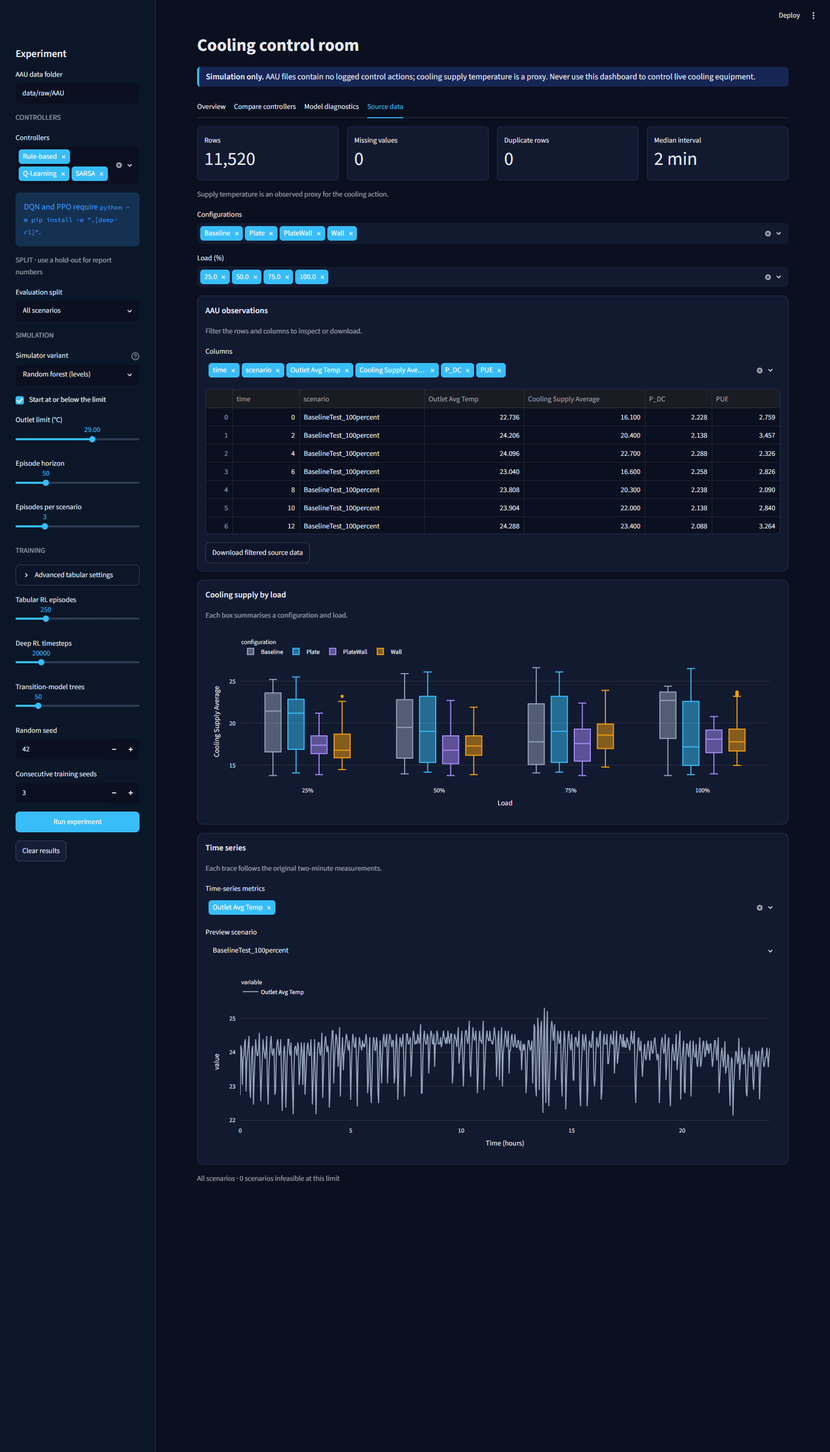
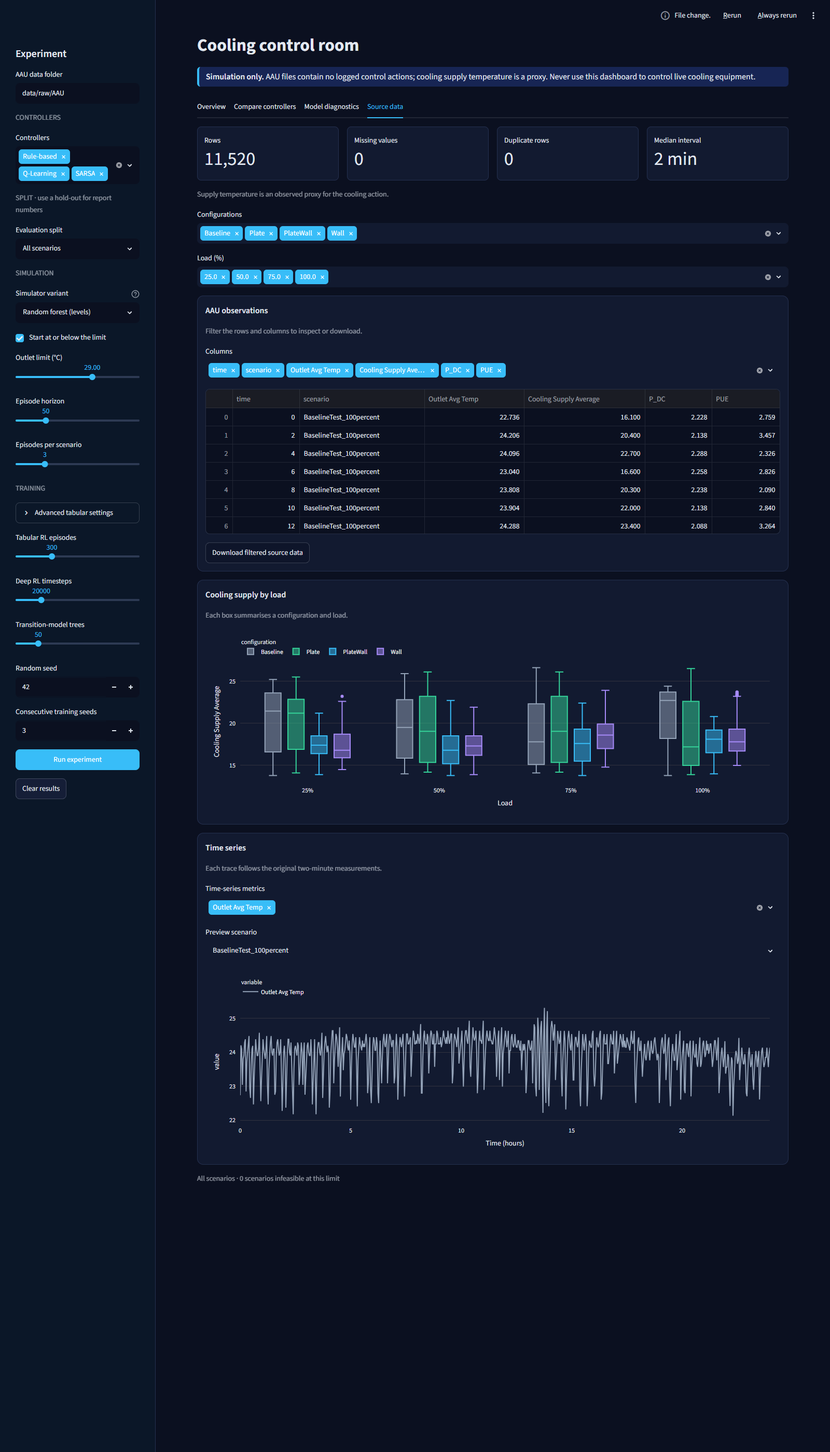
Benchmark both termination rules and state encoders on held-out AAU loads

diff --git a/scripts/verify_variants.py b/scripts/verify_variants.py
@@ -1,5 +1,6 @@
 """Reproduce the held-out three-seed comparison in docs/ui/REPORT.md."""
 
+from math import ceil
 from pathlib import Path
 
 import pandas as pd
@@ -14,74 +15,119 @@ def table(frame):
     return "\n".join("| " + " | ".join(row) + " |" for row in rows)
 
 
-def main():
+def benchmark(variant):
     data = load_csv_directory("data/raw/AAU")
-    diagnostics = []
-    results = []
-    for variant in VARIANTS:
-        context = prepare_experiment(
-            data,
-            split_name="Load generalisation: hold out 100%",
-            variant=variant,
-            trees=50,
-            seed=42,
-        )
-        sensitivity = action_sensitivity(context)
-        flags = sensitivity.loc[(sensitivity.applied < 0) & (sensitivity.P_DC < 0), "scenario"]
-        diagnostics.append(
-            {
-                "Simulator": variant,
-                **{key: f"{value:.4f}" for key, value in context.diagnostics.held_out_mae.items()},
-                "Mean abs Δ outlet (°C)": f"{sensitivity['Outlet Avg Temp'].abs().mean():.4f}",
-                "Mean abs Δ power (kW)": f"{sensitivity.P_DC.abs().mean():.4f}",
-                "Power sign flags": ", ".join(flags) or "None",
-            }
-        )
-        for controller in ("Rule-based", "Q-Learning", "SARSA"):
-            seeds = []
-            for seed in (42, 43, 44):
-                run = run_controller(
-                    context,
-                    controller=controller,
-                    outlet_limit=29,
-                    horizon=50,
-                    episodes_per_scenario=3,
-                    tabular_episodes=250,
-                    deep_timesteps=0,
-                    seed=seed,
-                )
-                metrics = run.scenario_metrics
-                seeds.append(
+    context = prepare_experiment(
+        data,
+        split_name="Load generalisation: hold out 100%",
+        variant=variant,
+        trees=50,
+        seed=42,
+    )
+    sensitivity = action_sensitivity(context)
+    flags = sensitivity.loc[(sensitivity.applied < 0) & (sensitivity.P_DC < 0), "scenario"]
+    diagnostics = {
+        "Simulator": variant,
+        **{key: f"{value:.4f}" for key, value in context.diagnostics.held_out_mae.items()},
+        "Mean abs Δ outlet (°C)": f"{sensitivity['Outlet Avg Temp'].abs().mean():.4f}",
+        "Mean abs Δ power (kW)": f"{sensitivity.P_DC.abs().mean():.4f}",
+        "Terminal cost per remaining step": ceil(
+            context.training_data.P_DC.max() + 0.5 * context.training_data.PUE.max()
+        ),
+        "Power sign flags": ", ".join(flags) or "None",
+    }
+    rows = []
+    base_cache = {}
+    corrected = {}
+    legacy_baseline = None
+    for legacy in [True, False]:
+        for legacy_state in [True, False]:
+            for controller in ["Rule-based (no hysteresis)", "Rule-based", "Q-Learning", "SARSA"]:
+                by_seed = []
+                for seed in [42, 43, 44]:
+                    key = (controller, seed, legacy)
+                    if key in base_cache:
+                        metrics = base_cache[key]
+                    else:
+                        run = run_controller(
+                            context,
+                            controller=controller,
+                            outlet_limit=29,
+                            horizon=50,
+                            episodes_per_scenario=3,
+                            tabular_episodes=300,
+                            deep_timesteps=0,
+                            legacy_termination=legacy,
+                            legacy_state=legacy_state,
+                            seed=seed,
+                        )
+                        metrics = run.scenario_metrics
+                        if controller.startswith("Rule-based"):
+                            base_cache[key] = metrics
+                    by_seed.append(
+                        {
+                            "Any violation (%)": 100 * metrics.any_violation.mean(),
+                            "Violating steps (%)": 100
+                            * metrics.violation_count.sum()
+                            / metrics.steps.sum(),
+                            "Steps": metrics.steps.mean(),
+                            "Return / step": metrics.return_per_step.mean(),
+                            "Power (kW)": metrics.mean_p_dc.mean(),
+                            "Switching (%)": 100 * metrics.switching_rate.mean(),
+                        }
+                    )
+                frame = pd.DataFrame(by_seed)
+                if legacy and not legacy_state and controller == "Rule-based":
+                    legacy_baseline = frame
+                if not legacy and not legacy_state:
+                    corrected[controller] = frame
+                rows.append(
                     {
-                        "Episodes violated (%)": 100 * metrics.violated.mean(),
-                        "Mean steps": metrics.steps_survived.mean(),
-                        "Switching (%)": 100 * metrics.switching_rate.mean(),
-                        "Power (kW)": metrics.mean_p_dc.mean(),
+                        "Termination": "Legacy" if legacy else "Serious",
+                        "State": "5-bin" if legacy_state else "Safety",
+                        "Controller": controller,
+                        **{k: f"{frame[k].mean():.3f} ± {frame[k].std():.3f}" for k in frame},
                     }
                 )
-            spread = pd.DataFrame(seeds)
-            results.append(
-                {
-                    "Simulator": variant,
-                    "Controller": controller,
-                    **{
-                        key: f"{spread[key].mean():.3f} ± {spread[key].std():.3f}" for key in spread
-                    },
-                }
-            )
-            print(variant, controller, results[-1], flush=True)
+            print(variant, legacy, legacy_state, flush=True)
+    comparisons = []
+    baseline = corrected["Rule-based"]
+    for metric in ["Steps", "Any violation (%)", "Violating steps (%)"]:
+        before, after = legacy_baseline[metric], baseline[metric]
+        comparisons.append(
+            f"Hysteresis {metric}, legacy to corrected termination: {before.mean():.3f} ± {before.std():.3f} to {after.mean():.3f} ± {after.std():.3f}."
+        )
+
+    for name in ["Q-Learning", "SARSA"]:
+        diff = corrected[name] - corrected["Rule-based"]
+        comparisons.append(
+            f"{name} minus hysteresis, paired by seed: any violation {diff['Any violation (%)'].mean():+.2f} ± {diff['Any violation (%)'].std():.2f} percentage points; mean power {diff['Power (kW)'].mean():+.4f} ± {diff['Power (kW)'].std():.4f} kW."
+        )
+        saving_pct = -100 * diff["Power (kW)"].mean() / baseline["Power (kW)"].mean()
+        hot_steps = diff["Violating steps (%)"].mean()
+        qualifies = saving_pct >= 1 and diff["Any violation (%)"].mean() <= 0 and hot_steps <= 0
+        comparisons.append(
+            f"{name} {'met' if qualifies else 'did not meet'} the joint benchmark of at least 1% lower mean power and no increase in either safety measure. Mean power saving was {saving_pct:+.2f}%, and the violating-step share changed by {hot_steps:+.2f} percentage points."
+        )
+    return diagnostics, table(pd.DataFrame(rows)), comparisons
+
+
+def main():
+    from concurrent.futures import ProcessPoolExecutor
+
+    with ProcessPoolExecutor(max_workers=3) as pool:
+        results = list(pool.map(benchmark, VARIANTS))
     report = [
         "# Held-out cooling experiments",
-        "Fit each simulator once (50 trees or boosting iterations, fit seed 42) on all 25%, 50% and 75% load files. Evaluate on the four 100% files. Each controller used the same seeded starts, limit 29 °C, eligible starts, horizon 50 and three episodes per scenario. Tabular policies trained for 250 episodes. Results give mean ± sample standard deviation of three seed-level episode means (42–44).",
-        "## Surrogate validation",
-        "First five numeric columns are held-out next-step MAE in source units. Sensitivity averages absolute responses to both ±0.5 °C supply perturbations around each held-out scenario median. Sign flags identify a predicted power decrease under stronger cooling.",
-        table(pd.DataFrame(diagnostics)),
-        "## Simulated control",
-        "A violation contributes one failed episode regardless of its duration. Duration includes the terminal transition. Switching is the fraction of consecutive action pairs that differ. Power is the episode mean over its observed duration.",
-        table(pd.DataFrame(results)),
-        "The level forest remains the reference. Temperature monotonicity is an imposed physical assumption. Differences between controllers depend on the surrogate, episode duration and seed. Logged AAU data do not identify causal savings.",
+        "Each model was fitted once on 25%, 50% and 75% loads (50 estimators, seed 42). Evaluation used the four held-out 100% scenarios, three matched starts per scenario for each seed (42–44), limit 29 °C and horizon 50. Each tabular run trained for 300 episodes. Values are seed means ± sample standard deviation. The violating-step percentage pools steps within each seed. Other metrics average episodes within each seed. The two rule controllers do not use a state encoder.",
+        "## Reward design correction",
+        "The original pipeline analysis supplied with the assignment measured a typical step cost of about 3.25, a mean excess of 0.16 °C, a mean violation cost of about 0.43 and a return–duration correlation of −0.96. Ending 10, 30 or 49 steps early avoided about 33, 98 or 159 cost units. Corrected runs continue through mild excess, charging quadratic cost each step. Excess above 1.5 °C ends the run and incurs the training-derived cost for each remaining step. The tables compare both rules at matched starts and report return per observed step.",
+        "## Simulator validation",
+        table(pd.DataFrame([item[0] for item in results])),
+        "Sensitivity is the mean absolute response to a ±0.5 °C supply change around the median held-out state. The small predicted outlet responses give the agent little leverage in these scenarios.",
     ]
-
+    for variant, (_, rows, comparisons) in zip(VARIANTS, results, strict=True):
+        report.extend(["## " + variant, rows, *comparisons])
     Path("docs/ui/REPORT.md").write_text("\n\n".join(report) + "\n", encoding="utf-8")
 
 

diff --git a/docs/ui/REPORT.md b/docs/ui/REPORT.md
@@ -1,33 +1,122 @@
 # Held-out cooling experiments
 
-Fit each simulator once (50 trees or boosting iterations, fit seed 42) on all 25%, 50% and 75% load files. Evaluate on the four 100% files. Each controller used the same seeded starts, limit 29 °C, eligible starts, horizon 50 and three episodes per scenario. Tabular policies trained for 250 episodes. Results give mean ± sample standard deviation of three seed-level episode means (42–44).
+Each model was fitted once on 25%, 50% and 75% loads (50 estimators, seed 42). Evaluation used the four held-out 100% scenarios, three matched starts per scenario for each seed (42–44), limit 29 °C and horizon 50. Each tabular run trained for 300 episodes. Values are seed means ± sample standard deviation. The violating-step percentage pools steps within each seed. Other metrics average episodes within each seed. The two rule controllers do not use a state encoder.
 
-## Surrogate validation
+## Reward design correction
 
-First five numeric columns are held-out next-step MAE in source units. Sensitivity averages absolute responses to both ±0.5 °C supply perturbations around each held-out scenario median. Sign flags identify a predicted power decrease under stronger cooling.
+The original pipeline analysis supplied with the assignment measured a typical step cost of about 3.25, a mean excess of 0.16 °C, a mean violation cost of about 0.43 and a return–duration correlation of −0.96. Ending 10, 30 or 49 steps early avoided about 33, 98 or 159 cost units. Corrected runs continue through mild excess, charging quadratic cost each step. Excess above 1.5 °C ends the run and incurs the training-derived cost for each remaining step. The tables compare both rules at matched starts and report return per observed step.
 
-| Simulator | Outlet Avg Temp | Cooling Return Average | P_DC | PUE | CoP | Mean abs Δ outlet (°C) | Mean abs Δ power (kW) | Power sign flags |
+## Simulator validation
+
+| Simulator | Outlet Avg Temp | Cooling Return Average | P_DC | PUE | CoP | Mean abs Δ outlet (°C) | Mean abs Δ power (kW) | Terminal cost per remaining step | Power sign flags |
+| --- | --- | --- | --- | --- | --- | --- | --- | --- | --- |
+| Random forest (levels) | 0.2975 | 0.6854 | 0.1520 | 0.2889 | 0.1830 | 0.0143 | 0.0037 | 5 | BaselineTest_100percent |
+| Random forest (deltas) | 0.2270 | 0.6557 | 0.1555 | 0.2674 | 0.1712 | 0.0188 | 0.0042 | 5 | None |
+| Monotone boosting (assumption) | 0.3017 | 0.7094 | 0.1513 | 0.2641 | 0.1775 | 0.0312 | 0.0011 | 5 | None |
+
+Sensitivity is the mean absolute response to a ±0.5 °C supply change around the median held-out state. The small predicted outlet responses give the agent little leverage in these scenarios.
+
+## Random forest (levels)
+
+| Termination | State | Controller | Any violation (%) | Violating steps (%) | Steps | Return / step | Power (kW) | Switching (%) |
 | --- | --- | --- | --- | --- | --- | --- | --- | --- |
-| Random forest (levels) | 0.2975 | 0.6854 | 0.1520 | 0.2889 | 0.1830 | 0.0143 | 0.0037 | BaselineTest_100percent |
-| Random forest (deltas) | 0.2270 | 0.6557 | 0.1555 | 0.2674 | 0.1712 | 0.0188 | 0.0042 | None |
-| Monotone boosting (assumption) | 0.3017 | 0.7094 | 0.1513 | 0.2641 | 0.1775 | 0.0312 | 0.0011 | None |
+| Legacy | 5-bin | Rule-based (no hysteresis) | 13.889 ± 4.811 | 0.326 ± 0.125 | 43.194 ± 2.358 | -3.352 ± 0.011 | 2.090 ± 0.011 | 1.077 ± 0.708 |
+| Legacy | 5-bin | Rule-based | 13.889 ± 4.811 | 0.326 ± 0.125 | 43.194 ± 2.358 | -3.358 ± 0.017 | 2.094 ± 0.015 | 0.340 ± 0.340 |
+| Legacy | 5-bin | Q-Learning | 22.222 ± 4.811 | 0.568 ± 0.147 | 39.472 ± 2.045 | -3.335 ± 0.011 | 2.084 ± 0.007 | 26.276 ± 8.102 |
+| Legacy | 5-bin | SARSA | 22.222 ± 4.811 | 0.568 ± 0.147 | 39.472 ± 2.045 | -3.331 ± 0.010 | 2.082 ± 0.006 | 25.340 ± 2.595 |
+| Legacy | Safety | Rule-based (no hysteresis) | 13.889 ± 4.811 | 0.326 ± 0.125 | 43.194 ± 2.358 | -3.352 ± 0.011 | 2.090 ± 0.011 | 1.077 ± 0.708 |
+| Legacy | Safety | Rule-based | 13.889 ± 4.811 | 0.326 ± 0.125 | 43.194 ± 2.358 | -3.358 ± 0.017 | 2.094 ± 0.015 | 0.340 ± 0.340 |
+| Legacy | Safety | Q-Learning | 25.000 ± 0.000 | 0.654 ± 0.001 | 38.250 ± 0.083 | -3.328 ± 0.010 | 2.082 ± 0.008 | 16.249 ± 7.088 |
+| Legacy | Safety | SARSA | 25.000 ± 0.000 | 0.645 ± 0.013 | 38.750 ± 0.795 | -3.345 ± 0.011 | 2.085 ± 0.008 | 36.536 ± 11.144 |
+| Serious | 5-bin | Rule-based (no hysteresis) | 13.889 ± 4.811 | 0.556 ± 0.192 | 50.000 ± 0.000 | -3.330 ± 0.002 | 2.081 ± 0.007 | 1.077 ± 0.708 |
+| Serious | 5-bin | Rule-based | 13.889 ± 4.811 | 0.556 ± 0.192 | 50.000 ± 0.000 | -3.336 ± 0.006 | 2.085 ± 0.010 | 0.340 ± 0.340 |
+| Serious | 5-bin | Q-Learning | 16.667 ± 8.333 | 3.889 ± 1.602 | 50.000 ± 0.000 | -3.328 ± 0.001 | 2.079 ± 0.006 | 23.810 ± 2.784 |
+| Serious | 5-bin | SARSA | 19.444 ± 4.811 | 4.333 ± 0.833 | 50.000 ± 0.000 | -3.331 ± 0.009 | 2.079 ± 0.005 | 30.669 ± 12.822 |
+| Serious | Safety | Rule-based (no hysteresis) | 13.889 ± 4.811 | 0.556 ± 0.192 | 50.000 ± 0.000 | -3.330 ± 0.002 | 2.081 ± 0.007 | 1.077 ± 0.708 |
+| Serious | Safety | Rule-based | 13.889 ± 4.811 | 0.556 ± 0.192 | 50.000 ± 0.000 | -3.336 ± 0.006 | 2.085 ± 0.010 | 0.340 ± 0.340 |
+| Serious | Safety | Q-Learning | 25.000 ± 0.000 | 5.111 ± 1.182 | 50.000 ± 0.000 | -3.347 ± 0.017 | 2.086 ± 0.003 | 41.837 ± 23.418 |
+| Serious | Safety | SARSA | 22.222 ± 4.811 | 4.722 ± 0.977 | 50.000 ± 0.000 | -3.336 ± 0.015 | 2.082 ± 0.004 | 40.873 ± 21.854 |
 
-## Simulated control
+Hysteresis Steps, legacy to corrected termination: 43.194 ± 2.358 to 50.000 ± 0.000.
 
-A violation contributes one failed episode regardless of its duration. Duration includes the terminal transition. Switching is the fraction of consecutive action pairs that differ. Power is the episode mean over its observed duration.
+Hysteresis Any violation (%), legacy to corrected termination: 13.889 ± 4.811 to 13.889 ± 4.811.
 
-| Simulator | Controller | Episodes violated (%) | Mean steps | Switching (%) | Power (kW) |
-| --- | --- | --- | --- | --- | --- |
-| Random forest (levels) | Rule-based | 13.889 ± 4.811 | 43.194 ± 2.358 | 1.077 ± 0.708 | 2.090 ± 0.011 |
-| Random forest (levels) | Q-Learning | 22.222 ± 4.811 | 39.472 ± 2.045 | 44.227 ± 8.962 | 2.080 ± 0.001 |
-| Random forest (levels) | SARSA | 22.222 ± 4.811 | 39.472 ± 2.045 | 48.621 ± 4.802 | 2.085 ± 0.007 |
-| Random forest (deltas) | Rule-based | 13.889 ± 4.811 | 43.194 ± 2.358 | 3.741 ± 0.295 | 2.138 ± 0.009 |
-| Random forest (deltas) | Q-Learning | 38.889 ± 12.729 | 37.583 ± 2.554 | 55.671 ± 3.378 | 2.106 ± 0.014 |
-| Random forest (deltas) | SARSA | 30.556 ± 4.811 | 39.972 ± 0.809 | 56.317 ± 4.990 | 2.112 ± 0.006 |
-| Monotone boosting (assumption) | Rule-based | 8.333 ± 0.000 | 45.917 ± 0.000 | 2.778 ± 0.393 | 2.204 ± 0.006 |
-| Monotone boosting (assumption) | Q-Learning | 19.444 ± 4.811 | 43.028 ± 0.268 | 51.077 ± 1.659 | 2.206 ± 0.008 |
-| Monotone boosting (assumption) | SARSA | 30.556 ± 4.811 | 37.917 ± 1.665 | 49.620 ± 1.371 | 2.206 ± 0.012 |
+Hysteresis Violating steps (%), legacy to corrected termination: 0.326 ± 0.125 to 0.556 ± 0.192.
 
-The level forest remains the reference. Temperature monotonicity is an imposed physical assumption. Differences between controllers depend on the surrogate, episode duration and seed. Logged AAU data do not identify causal savings.
+Q-Learning minus hysteresis, paired by seed: any violation +11.11 ± 4.81 percentage points; mean power +0.0015 ± 0.0081 kW.
 
-On the held-out 100% loads, both tabular controllers switched more frequently and had higher mean violation rates than the rule-based controller in every simulator. The two forests gave the tabular policies lower mean power over their shorter observed episodes. Those averages alone do not establish energy savings at equal safety or duration. The levels model also predicted lower power for increased cooling in Baseline at full load. The delta model had the lowest outlet MAE; monotone boosting had the largest average outlet response but a slightly higher outlet MAE than levels.
+Q-Learning did not meet the joint benchmark of at least 1% lower mean power and no increase in either safety measure. Mean power saving was -0.07%, and the violating-step share changed by +4.56 percentage points.
+
+SARSA minus hysteresis, paired by seed: any violation +8.33 ± 8.33 percentage points; mean power -0.0031 ± 0.0098 kW.
+
+SARSA did not meet the joint benchmark of at least 1% lower mean power and no increase in either safety measure. Mean power saving was +0.15%, and the violating-step share changed by +4.17 percentage points.
+
+## Random forest (deltas)
+
+| Termination | State | Controller | Any violation (%) | Violating steps (%) | Steps | Return / step | Power (kW) | Switching (%) |
+| --- | --- | --- | --- | --- | --- | --- | --- | --- |
+| Legacy | 5-bin | Rule-based (no hysteresis) | 13.889 ± 4.811 | 0.326 ± 0.125 | 43.194 ± 2.358 | -3.369 ± 0.013 | 2.138 ± 0.009 | 3.741 ± 0.295 |
+| Legacy | 5-bin | Rule-based | 13.889 ± 4.811 | 0.326 ± 0.125 | 43.194 ± 2.358 | -3.383 ± 0.013 | 2.150 ± 0.010 | 0.737 ± 0.393 |
+| Legacy | 5-bin | Q-Learning | 27.778 ± 9.623 | 0.701 ± 0.262 | 40.028 ± 1.684 | -3.339 ± 0.002 | 2.107 ± 0.007 | 24.588 ± 9.235 |
+| Legacy | 5-bin | SARSA | 33.333 ± 8.333 | 0.868 ± 0.220 | 38.417 ± 0.441 | -3.336 ± 0.021 | 2.106 ± 0.017 | 23.719 ± 3.431 |
+| Legacy | Safety | Rule-based (no hysteresis) | 13.889 ± 4.811 | 0.326 ± 0.125 | 43.194 ± 2.358 | -3.369 ± 0.013 | 2.138 ± 0.009 | 3.741 ± 0.295 |
+| Legacy | Safety | Rule-based | 13.889 ± 4.811 | 0.326 ± 0.125 | 43.194 ± 2.358 | -3.383 ± 0.013 | 2.150 ± 0.010 | 0.737 ± 0.393 |
+| Legacy | Safety | Q-Learning | 44.444 ± 9.623 | 1.226 ± 0.308 | 36.528 ± 1.577 | -3.333 ± 0.013 | 2.100 ± 0.007 | 27.535 ± 13.552 |
+| Legacy | Safety | SARSA | 41.667 ± 0.000 | 1.177 ± 0.022 | 35.417 ± 0.667 | -3.347 ± 0.015 | 2.101 ± 0.016 | 28.097 ± 16.267 |
+| Serious | 5-bin | Rule-based (no hysteresis) | 13.889 ± 4.811 | 0.889 ± 0.192 | 50.000 ± 0.000 | -3.348 ± 0.001 | 2.142 ± 0.008 | 4.535 ± 0.098 |
+| Serious | 5-bin | Rule-based | 13.889 ± 4.811 | 0.889 ± 0.192 | 50.000 ± 0.000 | -3.361 ± 0.004 | 2.154 ± 0.009 | 0.737 ± 0.393 |
+| Serious | 5-bin | Q-Learning | 19.444 ± 4.811 | 4.889 ± 1.337 | 50.000 ± 0.000 | -3.337 ± 0.012 | 2.103 ± 0.017 | 33.107 ± 9.969 |
+| Serious | 5-bin | SARSA | 22.222 ± 17.347 | 4.944 ± 1.584 | 50.000 ± 0.000 | -3.335 ± 0.021 | 2.105 ± 0.026 | 30.499 ± 8.024 |
+| Serious | Safety | Rule-based (no hysteresis) | 13.889 ± 4.811 | 0.889 ± 0.192 | 50.000 ± 0.000 | -3.348 ± 0.001 | 2.142 ± 0.008 | 4.535 ± 0.098 |
+| Serious | Safety | Rule-based | 13.889 ± 4.811 | 0.889 ± 0.192 | 50.000 ± 0.000 | -3.361 ± 0.004 | 2.154 ± 0.009 | 0.737 ± 0.393 |
+| Serious | Safety | Q-Learning | 30.556 ± 4.811 | 5.611 ± 0.347 | 50.000 ± 0.000 | -3.329 ± 0.012 | 2.097 ± 0.014 | 25.964 ± 7.491 |
+| Serious | Safety | SARSA | 30.556 ± 12.729 | 4.944 ± 2.637 | 50.000 ± 0.000 | -3.330 ± 0.017 | 2.098 ± 0.009 | 39.229 ± 27.133 |
+
+Hysteresis Steps, legacy to corrected termination: 43.194 ± 2.358 to 50.000 ± 0.000.
+
+Hysteresis Any violation (%), legacy to corrected termination: 13.889 ± 4.811 to 13.889 ± 4.811.
+
+Hysteresis Violating steps (%), legacy to corrected termination: 0.326 ± 0.125 to 0.889 ± 0.192.
+
+Q-Learning minus hysteresis, paired by seed: any violation +16.67 ± 0.00 percentage points; mean power -0.0569 ± 0.0041 kW.
+
+Q-Learning did not meet the joint benchmark of at least 1% lower mean power and no increase in either safety measure. Mean power saving was +2.64%, and the violating-step share changed by +4.72 percentage points.
+
+SARSA minus hysteresis, paired by seed: any violation +16.67 ± 14.43 percentage points; mean power -0.0560 ± 0.0097 kW.
+
+SARSA did not meet the joint benchmark of at least 1% lower mean power and no increase in either safety measure. Mean power saving was +2.60%, and the violating-step share changed by +4.06 percentage points.
+
+## Monotone boosting (assumption)
+
+| Termination | State | Controller | Any violation (%) | Violating steps (%) | Steps | Return / step | Power (kW) | Switching (%) |
+| --- | --- | --- | --- | --- | --- | --- | --- | --- |
+| Legacy | 5-bin | Rule-based (no hysteresis) | 8.333 ± 0.000 | 0.181 ± 0.000 | 45.917 ± 0.000 | -3.425 ± 0.005 | 2.204 ± 0.006 | 2.778 ± 0.393 |
+| Legacy | 5-bin | Rule-based | 8.333 ± 0.000 | 0.181 ± 0.000 | 45.917 ± 0.000 | -3.431 ± 0.006 | 2.208 ± 0.007 | 1.304 ± 0.098 |
+| Legacy | 5-bin | Q-Learning | 33.333 ± 8.333 | 0.894 ± 0.291 | 37.861 ± 3.002 | -3.427 ± 0.007 | 2.205 ± 0.009 | 18.447 ± 3.193 |
+| Legacy | 5-bin | SARSA | 30.556 ± 9.623 | 0.837 ± 0.366 | 37.667 ± 4.032 | -3.436 ± 0.006 | 2.204 ± 0.009 | 35.319 ± 10.021 |
+| Legacy | Safety | Rule-based (no hysteresis) | 8.333 ± 0.000 | 0.181 ± 0.000 | 45.917 ± 0.000 | -3.425 ± 0.005 | 2.204 ± 0.006 | 2.778 ± 0.393 |
+| Legacy | Safety | Rule-based | 8.333 ± 0.000 | 0.181 ± 0.000 | 45.917 ± 0.000 | -3.431 ± 0.006 | 2.208 ± 0.007 | 1.304 ± 0.098 |
+| Legacy | Safety | Q-Learning | 25.000 ± 0.000 | 0.627 ± 0.011 | 39.861 ± 0.728 | -3.425 ± 0.011 | 2.203 ± 0.008 | 17.726 ± 8.834 |
+| Legacy | Safety | SARSA | 19.444 ± 19.245 | 0.544 ± 0.628 | 41.556 ± 7.554 | -3.443 ± 0.002 | 2.203 ± 0.008 | 51.304 ± 13.132 |
+| Serious | 5-bin | Rule-based (no hysteresis) | 8.333 ± 0.000 | 0.333 ± 0.000 | 50.000 ± 0.000 | -3.419 ± 0.005 | 2.203 ± 0.006 | 2.778 ± 0.393 |
+| Serious | 5-bin | Rule-based | 8.333 ± 0.000 | 0.333 ± 0.000 | 50.000 ± 0.000 | -3.425 ± 0.006 | 2.207 ± 0.007 | 1.304 ± 0.098 |
+| Serious | 5-bin | Q-Learning | 33.333 ± 8.333 | 5.667 ± 1.014 | 50.000 ± 0.000 | -3.428 ± 0.009 | 2.206 ± 0.008 | 18.821 ± 11.293 |
+| Serious | 5-bin | SARSA | 25.000 ± 0.000 | 5.222 ± 2.175 | 50.000 ± 0.000 | -3.432 ± 0.007 | 2.205 ± 0.007 | 26.361 ± 12.296 |
+| Serious | Safety | Rule-based (no hysteresis) | 8.333 ± 0.000 | 0.333 ± 0.000 | 50.000 ± 0.000 | -3.419 ± 0.005 | 2.203 ± 0.006 | 2.778 ± 0.393 |
+| Serious | Safety | Rule-based | 8.333 ± 0.000 | 0.333 ± 0.000 | 50.000 ± 0.000 | -3.425 ± 0.006 | 2.207 ± 0.007 | 1.304 ± 0.098 |
+| Serious | Safety | Q-Learning | 22.222 ± 12.729 | 3.222 ± 0.694 | 50.000 ± 0.000 | -3.431 ± 0.005 | 2.204 ± 0.005 | 21.259 ± 3.539 |
+| Serious | Safety | SARSA | 8.333 ± 0.000 | 1.167 ± 0.577 | 50.000 ± 0.000 | -3.432 ± 0.011 | 2.202 ± 0.003 | 31.463 ± 22.802 |
+
+Hysteresis Steps, legacy to corrected termination: 45.917 ± 0.000 to 50.000 ± 0.000.
+
+Hysteresis Any violation (%), legacy to corrected termination: 8.333 ± 0.000 to 8.333 ± 0.000.
+
+Hysteresis Violating steps (%), legacy to corrected termination: 0.181 ± 0.000 to 0.333 ± 0.000.
+
+Q-Learning minus hysteresis, paired by seed: any violation +13.89 ± 12.73 percentage points; mean power -0.0022 ± 0.0039 kW.
+
+Q-Learning did not meet the joint benchmark of at least 1% lower mean power and no increase in either safety measure. Mean power saving was +0.10%, and the violating-step share changed by +2.89 percentage points.
+
+SARSA minus hysteresis, paired by seed: any violation +0.00 ± 0.00 percentage points; mean power -0.0050 ± 0.0045 kW.
+
+SARSA did not meet the joint benchmark of at least 1% lower mean power and no increase in either safety measure. Mean power saving was +0.23%, and the violating-step share changed by +0.83 percentage points.
